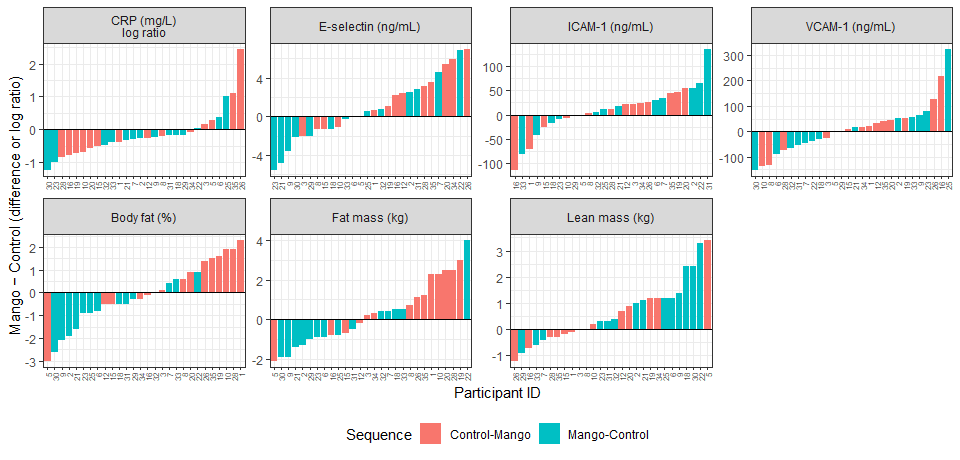
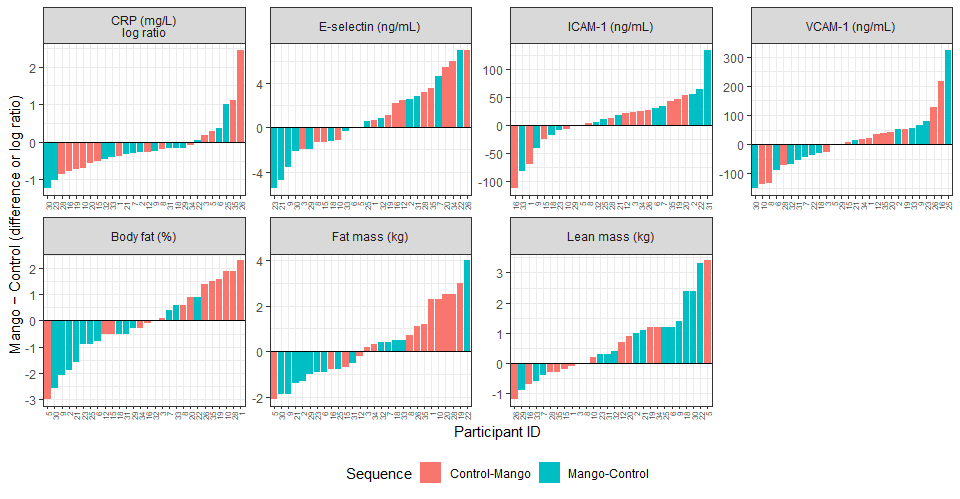
Tidy up exploratory analysis

diff --git a/summary.md b/summary.md
@@ -117,43 +117,50 @@ for CRP) by dividing by 1,000.
 
 #### Profile plots for glycemic indicators:
 
-- MANCAR24 (Control–Mango) had high glucose (139 mg/dL), HOMA2-IR
-  (3.75), and HbA1c (6.8%) at baseline, and then dropped out.
-- MANCAR27 (Mango–Control) had high glucose at baseline (154 mg/dL) and
-  at visit 3 (158 mg/dL), and then dropped out.
+- Dropouts:
+  - MANCAR24 (Control–Mango) had high glucose (139 mg/dL), HOMA2-IR
+    (3.75), and HbA1c (6.8%) at baseline, and then dropped out.
+  - MANCAR27 (Mango–Control) had high glucose at baseline (154 mg/dL)
+    and at visit 3 (158 mg/dL), and then dropped out.
 - \[**Check needed**\] MANCAR21 (Mango–Control) had a spike in glucose
   (147 mg/dL) and insulin (119 µIU/mL) at visit 3, suggesting a
-  non-fasting sample; HOMA2-IR was not calculated for this visit
-  (insulin above the Oxford calculator’s upper limit)
+  non-fasting sample
+  - HOMA2-IR was not calculated for this visit (insulin above the Oxford
+    calculator’s upper limit)
 - \[**Check needed**\] MANCAR22 (Mango–Control) had the largest drop in
-  glucose from Mango to Control (139 → 94 mg/dL). Insulin was
-  consistently high at all visits (38.4–50.7 µIU/mL).
+  glucose from Mango to Control (139 → 94 mg/dL).
+  - Insulin was consistently high at all visits (38.4–50.7 µIU/mL).
 - \[**Check needed**\] MANCAR16 (Control–Mango) showed a steep decline
-  in insulin (10.1 → 2.5 → 2.0 µIU/mL); HOMA2-IR is missing at visits 3
-  and 7 because insulin was below the Oxford calculator’s lower limit.
+  in insulin (10.1 → 2.5 → 2.0 µIU/mL)
+  - HOMA2-IR is missing at visits 3 and 7 because insulin was below the
+    Oxford calculator’s lower limit.
 
 ![](summary_files/figure-gfm/profile_plot_glycemic-1.png)<!-- -->
 
 #### Profile plots for lipids:
 
 - Lipid levels were generally stable within participants, particularly
-  HDL-C; no consistent pattern by treatment phase is apparent
-- MANCAR10 (Control–Mango) had the highest total cholesterol (272–283
-  mg/dL) and LDL-C (168–185 mg/dL) throughout, and the highest
-  triglycerides at baseline (314 mg/dL).
+  HDL-C
+
+  - No consistent pattern by treatment phase is apparent
+
+- Dropouts:
+
+  - MANCAR24 (Control–Mango) had high lipid values at baseline (TC 249,
+    LDL 159, HDL 65) before dropping out
+  - MANCAR27 (Mango–Control) had high HDL-C (78 and 75 mg/dL) at
+    baseline and visit 3
+
+- MANCAR10 (Control–Mango) had the highest TC (272–283 mg/dL) and LDL
+  (168–185 mg/dL) throughout, and the highest triglycerides at baseline
+  (314 mg/dL)
+
 - \[**Check needed**\] MANCAR31 (Mango–Control) showed a large drop in
-  total cholesterol (231 → 187 mg/dL) and LDL-C (172 → 121 mg/dL) from
-  visit 3 to visit 7 (control phase)
-- \[**Check needed**\] MANCAR22 (Mango–Control) had a rise in total
-  cholesterol (287 mg/dL), LDL-C (190 mg/dL), and triglycerides (235
-  mg/dL) at visit 7 (control phase).
-- Three participants in the Mango–Control sequence had a dip in LDL-C at
-  visit 3 (end of mango phase): MANCAR25 (115 → 81 → 118 mg/dL),
-  MANCAR32 (113 → 79 → 108 mg/dL), and MANCAR23 (97 → 78 → 78 mg/dL).
-- MANCAR02 (Mango–Control) had consistently high HDL-C (76–85 mg/dL).
-- Dropouts: MANCAR24 (Control–Mango) had baseline values only (total
-  cholesterol 249 mg/dL, LDL-C 159 mg/dL); MANCAR27 (Mango–Control) had
-  high HDL-C (78 and 75 mg/dL) at baseline and visit 3.
+  TC (231 → 187 mg/dL) and LDL (172 → 121 mg/dL) from visit 3 to visit 7
+  (control phase)
+
+- \[**Check needed**\] MANCAR22 (Mango–Control) had a rise in TC (287
+  mg/dL), LDL (190 mg/dL), and TG (235 mg/dL) at visit 7 (control phase)
 
 ![](summary_files/figure-gfm/profile_plot_lipids-1.png)<!-- -->
 
@@ -162,30 +169,34 @@ for CRP) by dividing by 1,000.
 - Oxidized LDL showed a pattern consistent with a mango effect: values
   decreased during the mango phase and increased during the control
   phase in both sequences
-- Oxidized LDL levels were generally higher in the Control–Mango
-  sequence
-- MANCAR31 (Mango–Control) had a marked decrease during the control
-  phase (384 → 224 ng/mL), in parallel with the drop in LDL-C noted
-  above.
-- 8-iso-PGF2α showed no consistent pattern by treatment phase. MANCAR35
-  (Control–Mango) had consistently low values (0.26–0.37 ng/mL).
+  - Oxidized LDL levels were generally higher in the Control–Mango
+    sequence
+  - 8-iso-PGF2α showed no consistent pattern by treatment phase
+- MANCAR31 (Mango–Control) had a marked decrease in oxidized LDL during
+  the control phase (384 → 224 ng/mL), in parallel with the drop in LDL
+  noted above
 
 ![](summary_files/figure-gfm/profile_plot_oxidation-1.png)<!-- -->
 
 #### Profile plots for inflammatory markers:
 
-- \[**Check needed**\] CRP: MANCAR26 (Control–Mango) had a spike at
-  visit 7 (0.80 → 9.12 mg/L), suggesting an acute inflammatory episode.
-- E-selectin: MANCAR24 (Control–Mango) had a high value at baseline
-  (75.9 ng/mL), then dropped out.
-- ICAM-1: MANCAR02 (Mango–Control) had consistently high values
-  (1,211–1,298 ng/mL) and MANCAR05 (Control–Mango) consistently low
-  values (~28 ng/mL); MANCAR31 (Mango–Control) increased from 484 to 885
-  ng/mL at visit 3.
-- \[**Check needed**\] VCAM-1: MANCAR16 (Control–Mango) increased
-  steadily (795 → 865 → 1,080 ng/mL); MANCAR25 (Mango–Control) had a
-  spike at visit 3 (1,140 ng/mL); MANCAR33 (Mango–Control) had
-  consistently low values (189–243 ng/mL).
+- \[**Check needed**\] CRP:
+  - MANCAR26 (Control–Mango) had a spike at visit 7 (0.80 → 9.12 mg/L),
+    suggesting an acute inflammatory episode
+- E-selectin:
+  - MANCAR24 (Control–Mango) had a high value at baseline (75.9 ng/mL)
+    before dropping out
+- ICAM-1:
+  - MANCAR02 (Mango–Control) had consistently high values (1,211–1,298
+    ng/mL)
+  - MANCAR05 (Control–Mango) consistently low values (~28 ng/mL)
+  - MANCAR31 (Mango–Control) increased from 484 to 885 ng/mL at visit 3
+    (mango phase)
+- \[**Check needed**\] VCAM-1:
+  - MANCAR16 (Control–Mango) increased steadily (795 → 865 → 1,080
+    ng/mL)
+  - MANCAR25 (Mango–Control) had a spike at visit 3 (1,140 ng/mL)
+  - MANCAR33 (Mango–Control) had consistently low values (189–243 ng/mL)
 
 ![](summary_files/figure-gfm/profile_plot_inflammation-1.png)<!-- -->
 
@@ -193,12 +204,12 @@ for CRP) by dividing by 1,000.
 
 - Body fat:
   - MANCAR27 (Mango–Control) increased during the mango phase (35.2% →
-    38.5%) before dropping out.
+    38.5%) before dropping out
 - Fat mass:
   - MANCAR22 (Mango–Control) decreased during the control phase (48.3 →
-    44.3 kg).
+    44.3 kg)
   - MANCAR27 (Mango–Control) increased during the mango phase (23.5 →
-    27.5 kg) before dropping out.
+    27.5 kg) before dropping out
 - Lean mass: Very stable within participants
 
 ![](summary_files/figure-gfm/profile_plot_body_composition-1.png)<!-- -->
@@ -216,39 +227,41 @@ for CRP) by dividing by 1,000.
 - Glycemic indicators:
   - Glucose, insulin, HOMA2-IR, and HbA1c showed no consistent
     direction; participants were split roughly evenly between lower and
-    higher values on mango (e.g., glucose 14 vs 14).
-  - The largest positive glucose differences came from MANCAR22 (139 vs
-    94 mg/dL), whose glucose dropped during the control phase, and
-    MANCAR21 (147 vs 107 mg/dL), whose end-of-mango sample was likely
-    non-fasting (see “Profile plots for glycemic indicators” section
-    above). The largest insulin difference was also from MANCAR21.
-  - HbA1c differences were small and discrete (0.1% steps); 6 of 28 had
-    no change.
+    higher values on mango (e.g., glucose 14 vs 14)
+  - The largest positive glucose differences came from:
+    - MANCAR22 (139 vs 94 mg/dL), whose glucose dropped during the
+      control phase, and
+    - MANCAR21 (147 vs 107 mg/dL), whose end-of-mango sample was likely
+      non-fasting (see “Profile plots for glycemic indicators” section
+      above)
+    - The largest insulin difference was also from MANCAR21
 - Lipids:
-  - Total cholesterol was evenly split (14 vs 14). LDL-C tended to be
-    slightly lower on mango (15 lower, 11 higher); the largest positive
-    difference (+51 mg/dL) was from MANCAR31, whose LDL-C dropped during
-    the control phase (see “Profile plots for lipids” section above).
-  - HDL-C tended to be slightly lower on mango (17 lower, 8 higher).
-  - Triglycerides tended to be higher on mango in 18 of 28 participants.
+  - TC was evenly split (14 vs 14)
+  - LDL tended to be slightly lower on mango (15 lower, 11 higher)
+    - The largest positive difference (+51 mg/dL) was from MANCAR31,
+      whose LDL-C dropped during the control phase (see “Profile plots
+      for lipids” section above)
+  - HDL tended to be slightly lower on mango (17 lower, 8 higher)
+  - TG tended to be higher on mango in 18 of 28 participants
 - Oxidative stress:
-  - Oxidized LDL was lower on mango in 20 of 28 participants.
-  - 8-iso-PGF2α showed no consistent direction.
+  - Oxidized LDL was lower on mango in 20 of 28 participants
+  - 8-iso-PGF2α showed no consistent direction
 
 ![](summary_files/figure-gfm/Waterfall_secondary-1.png)<!-- -->
 
 - Inflammatory markers:
-  - CRP was lower on mango in 21 of 28 participants; the largest
-    positive difference was MANCAR26, with a spike at the end of the
-    mango phase (see “Profile plots for inflammatory” section above).
+  - CRP was lower on mango in 21 of 28 participants
+    - The largest positive difference in CRP was MANCAR26, with a spike
+      at the end of the mango phase (see “Profile plots for
+      inflammatory” section above)
 - Body composition:
   - Body fat (%) and fat mass were evenly split overall, but bars were
     largely separated by sequence:
-    - Control–Mango participants (mango in phase 2) mostly had positive
-      differences and Mango–Control participants (mango in phase 1)
-      mostly negative, consistent with an increase in phase 2 regardless
-      of diet (period effect).
-  - Lean mass tended to be higher on mango (17 of 28).
+    - Control–Mango participants mostly had positive differences and
+    - Mango–Control participants mostly negative
+    - These are consistent with an increase in phase 2 regardless of
+      diet (period effect)
+  - Lean mass tended to be higher on mango (17 of 28)
 
 ## Descriptive table at baseline
 
